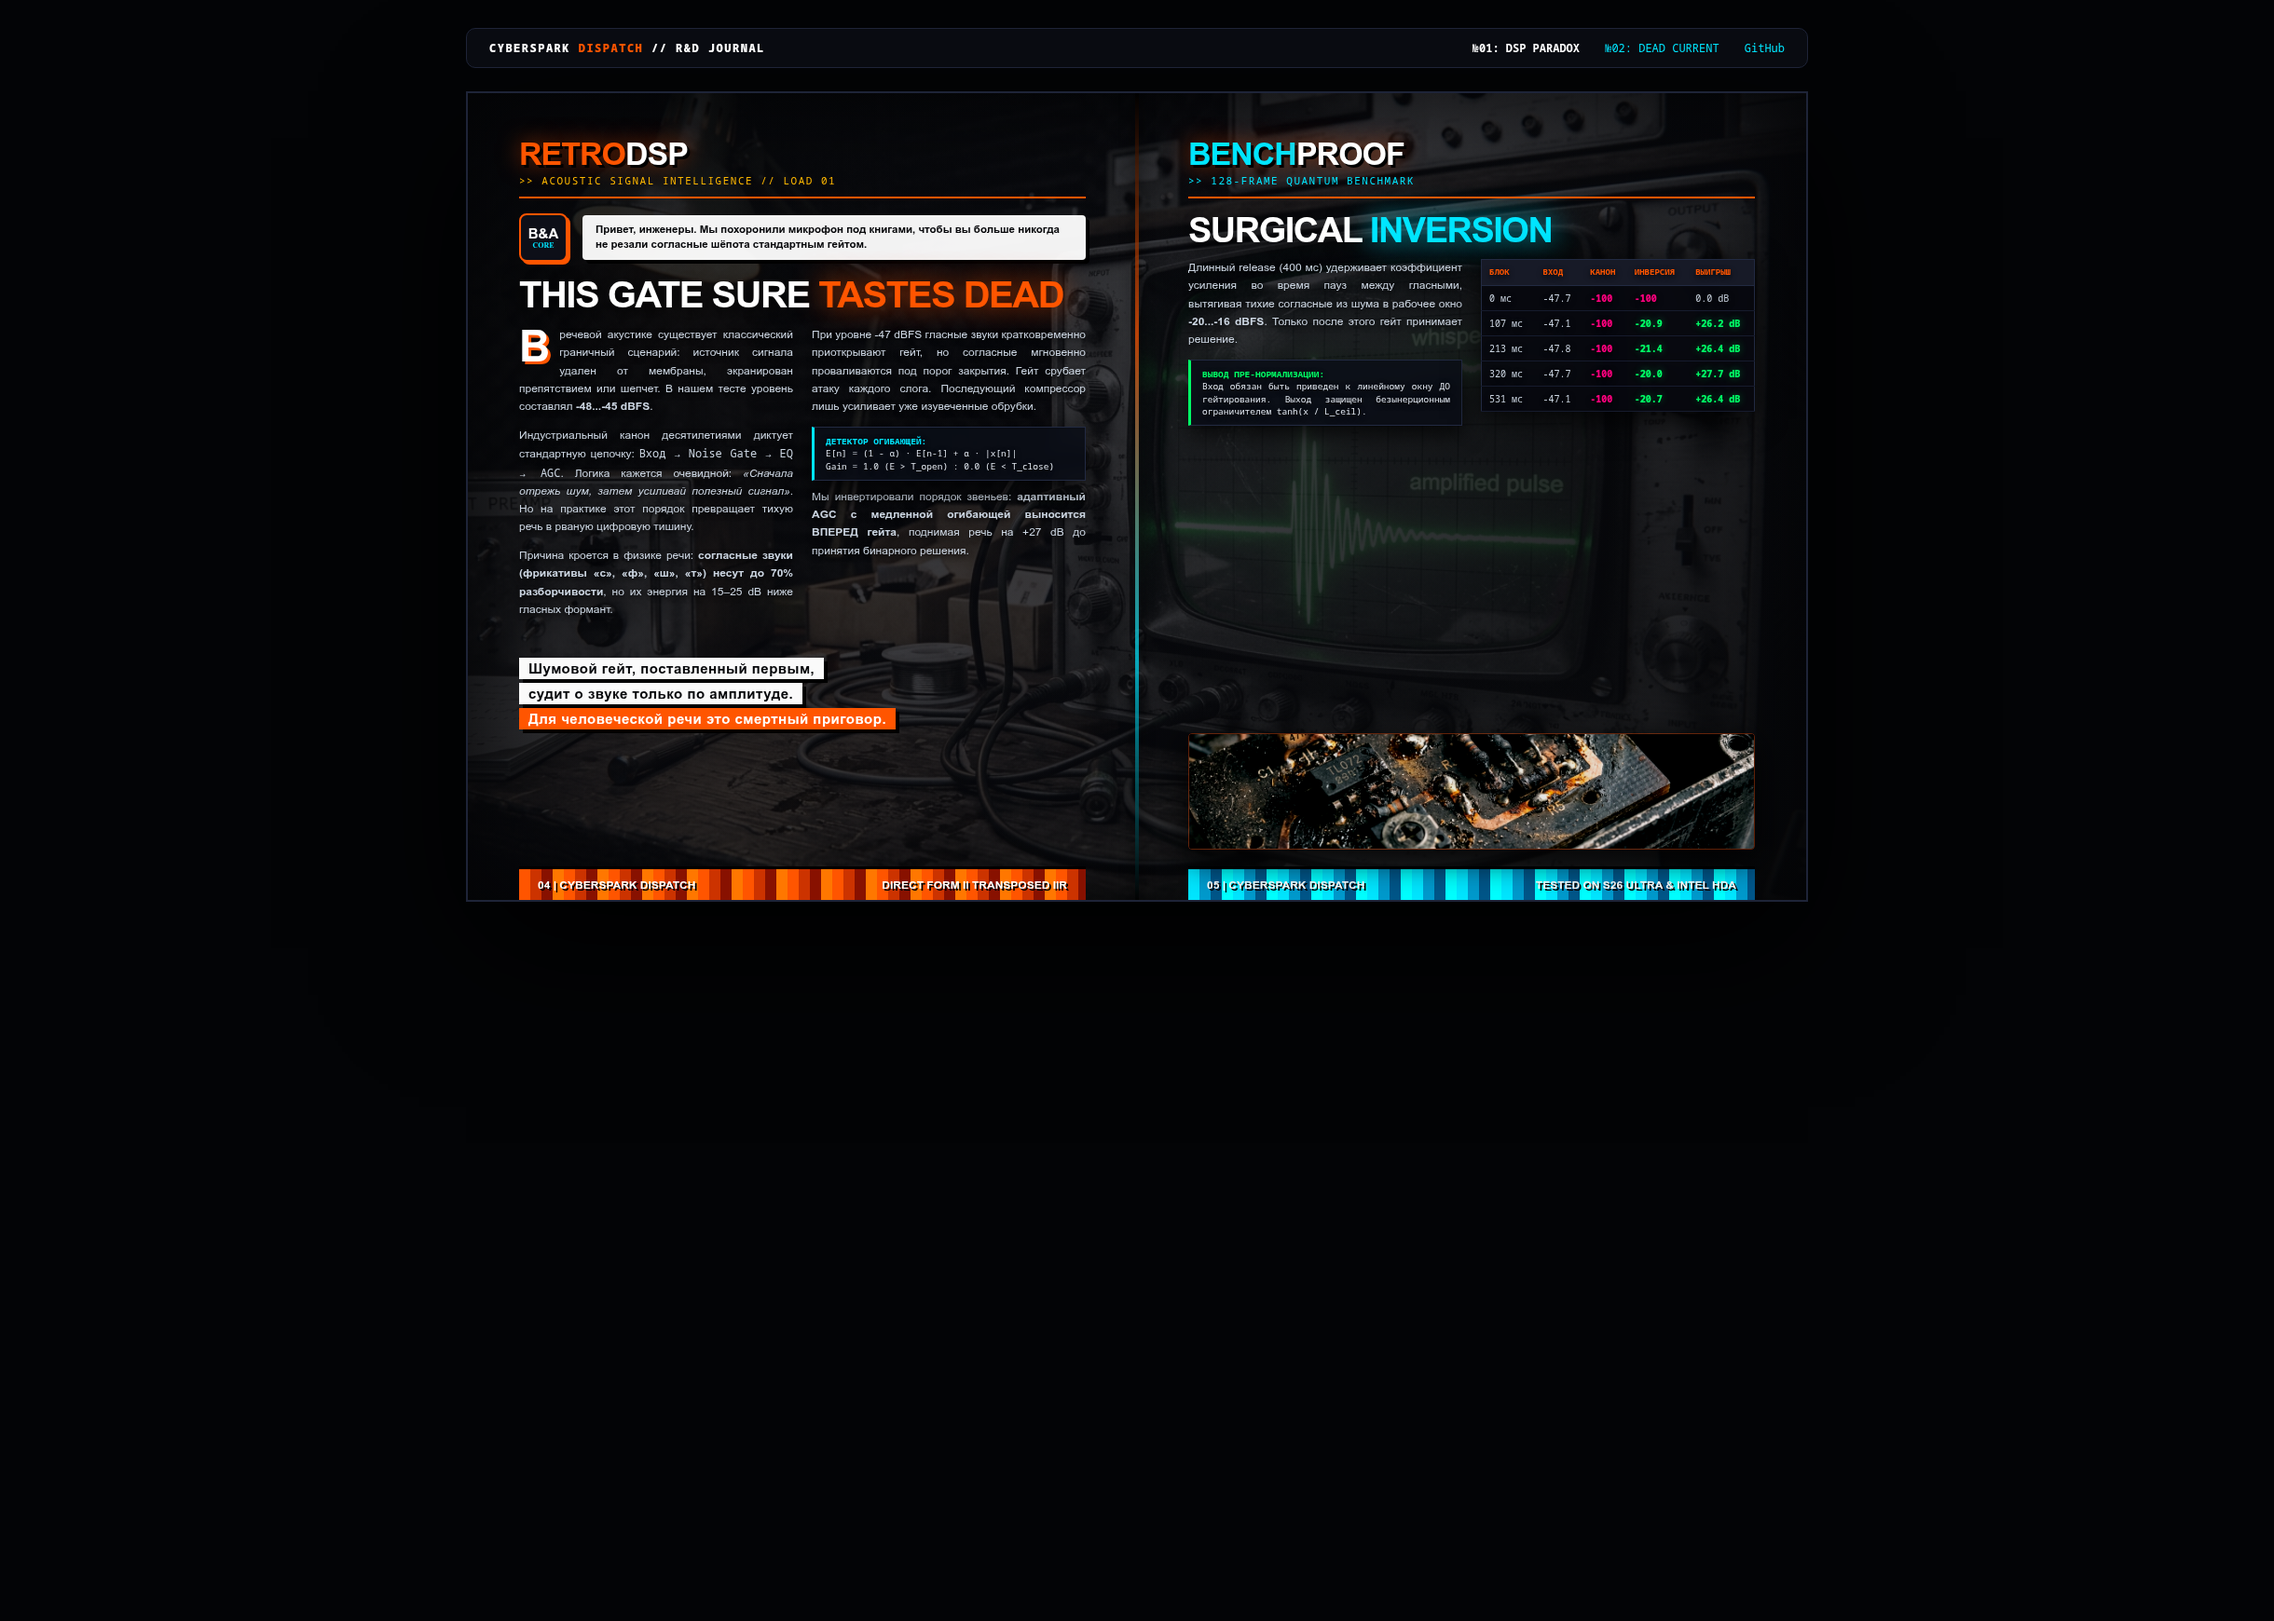
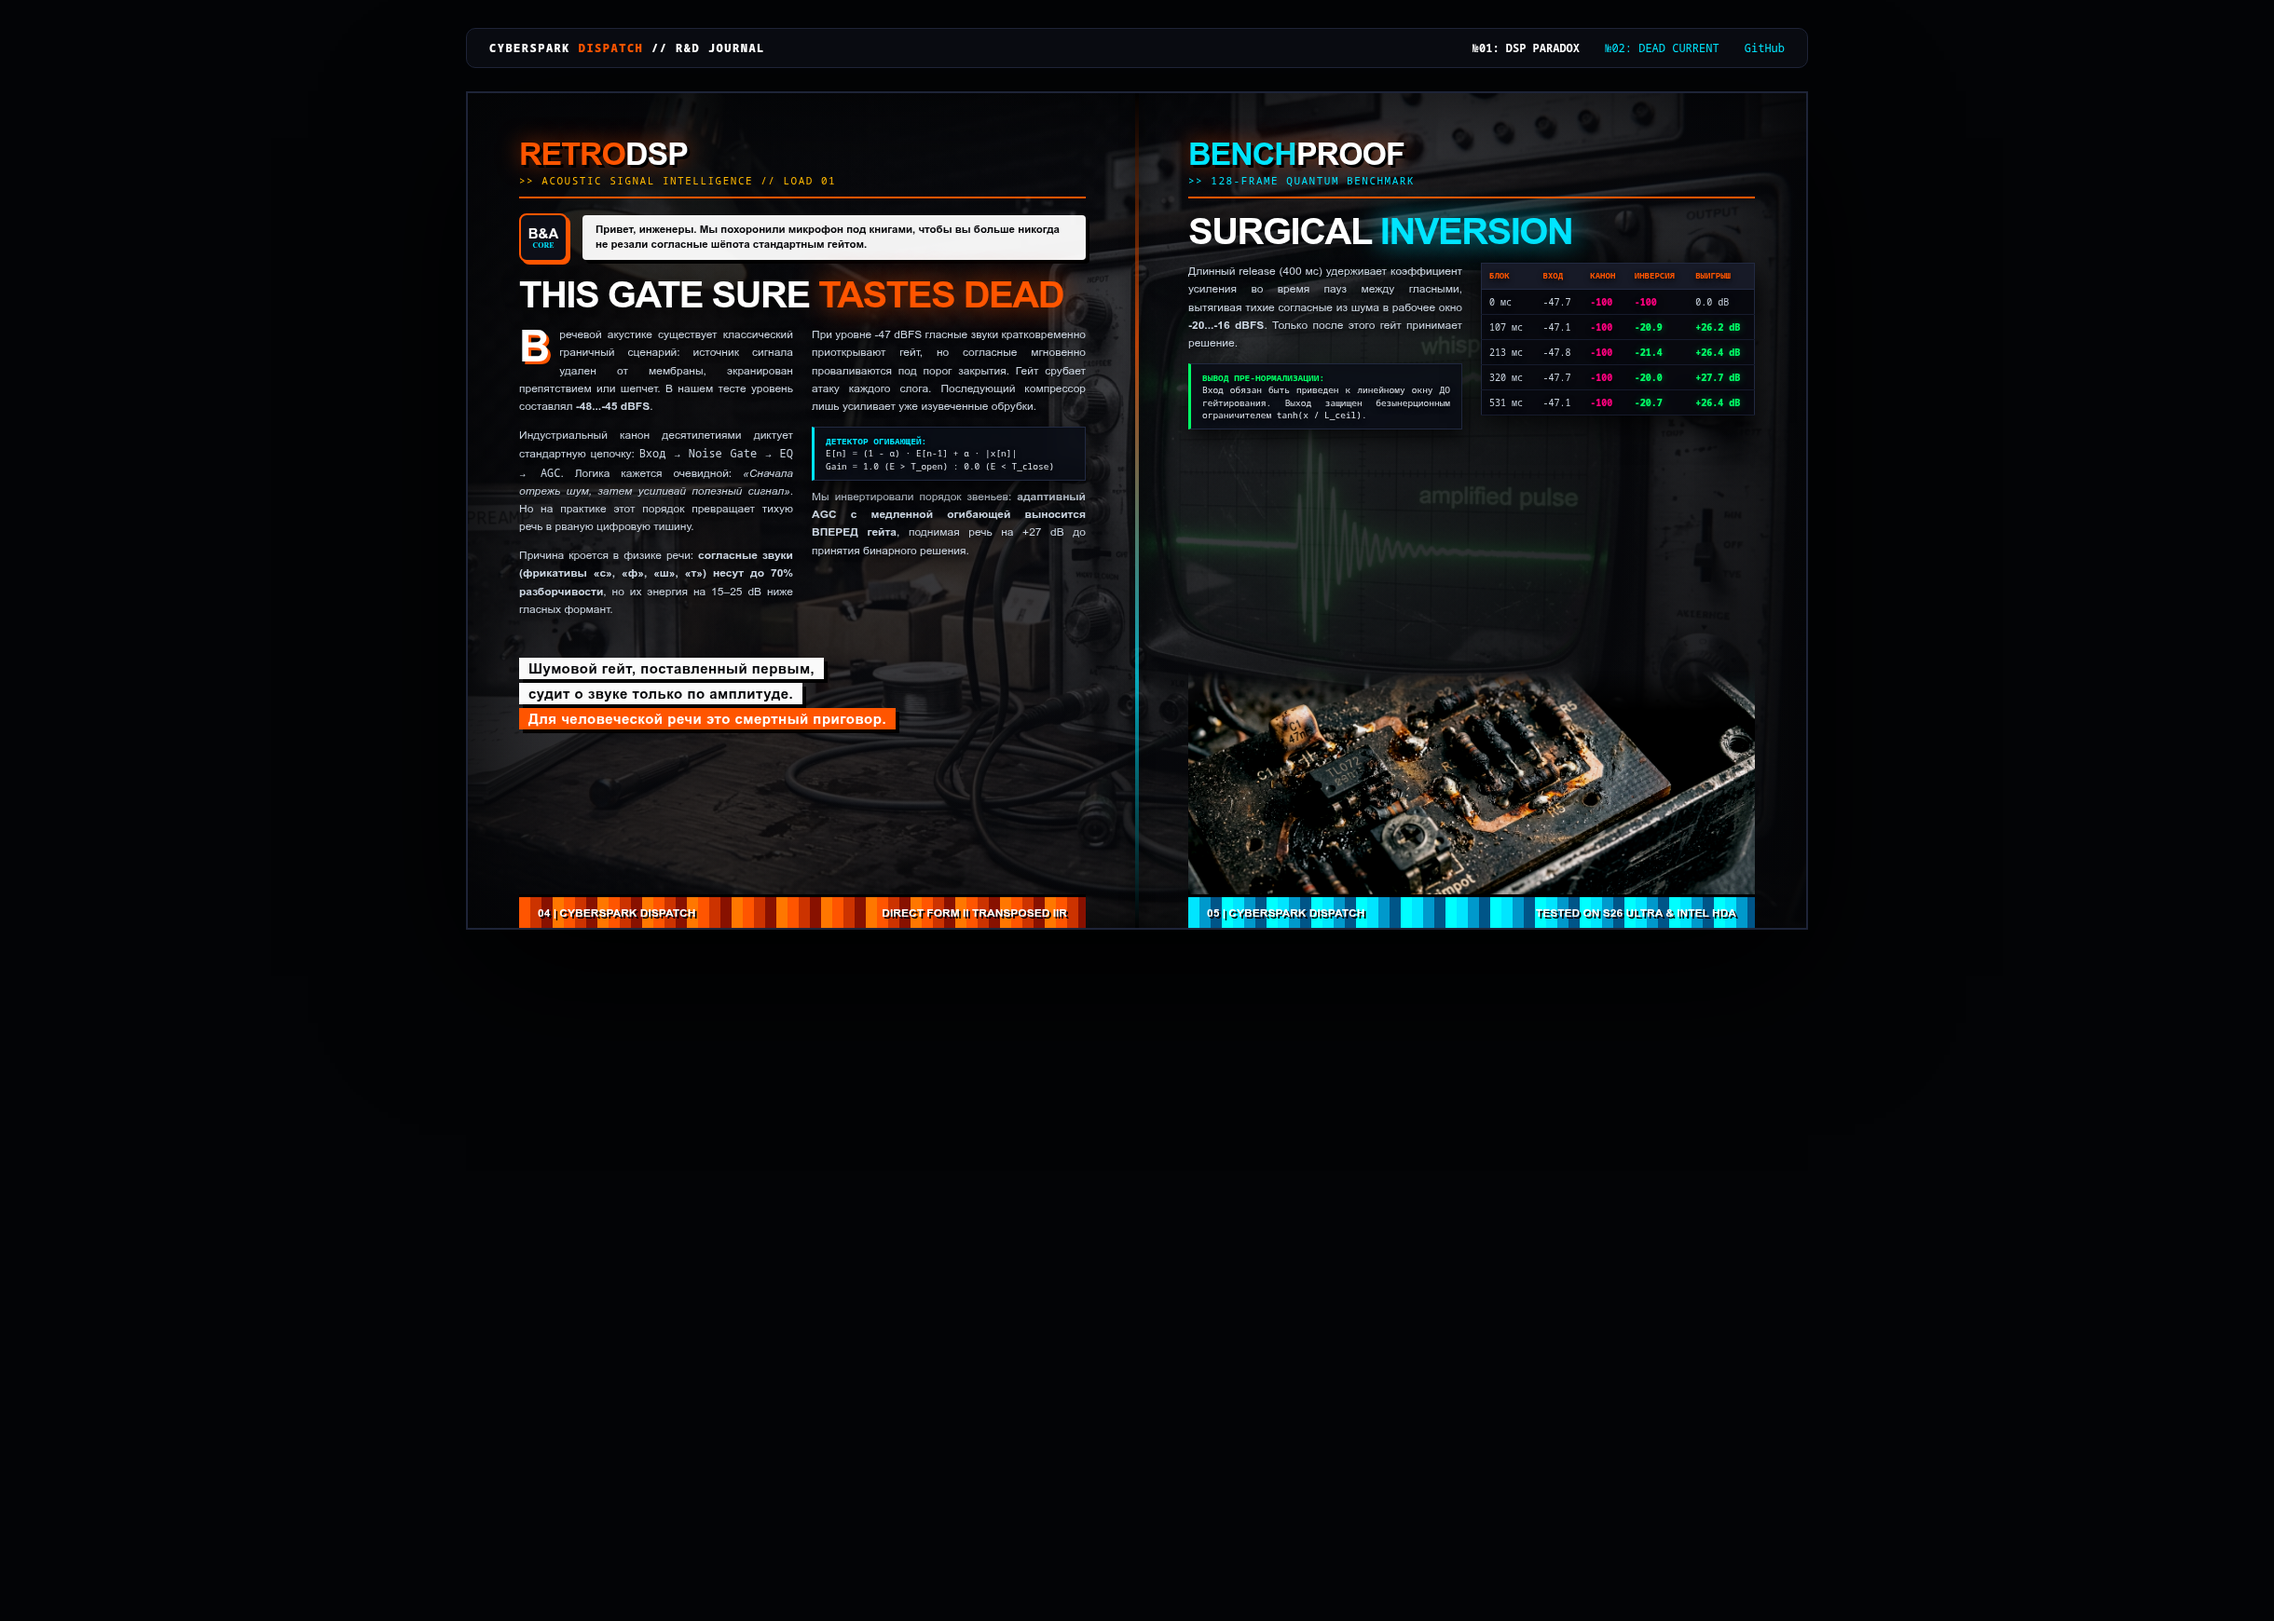
✨ Natural Aspect Ratio & Organic Feathering: Removed artificial borders & tight height caps on macro hero images

diff --git a/index.html b/index.html
@@ -61,7 +61,7 @@
   .spread-container {
     width: 100%;
     max-width: 1440px;
-    min-height: 870px;
+    min-height: 900px;
     background: 
       linear-gradient(135deg, rgba(6,7,10,0.82) 0%, rgba(9,10,16,0.72) 45%, rgba(6,7,10,0.85) 100%),
       url('assets/dsp_oscilloscope_raw.jpg') center center / cover no-repeat;
@@ -231,7 +231,6 @@
     color: #ffffff;
   }
 
-  /* DATA TABLE WITH AIR */
   .data-table {
     width: 100%;
     border-collapse: collapse;
@@ -275,17 +274,17 @@
     box-shadow: 0 8px 25px rgba(0,0,0,0.8);
   }
 
-  /* BOTTOM-ANCHORED FULL-WIDTH TACTILE ARTIFACT STRIP */
-  .bottom-anchored-strip {
+  /* FULL-BLEED SEAMLESS BOTTOM IMAGE (NO BORDER, ORGANIC 16:9 RATIO, FEATHERED TOP) */
+  .bottom-organic-hero {
     width: 100%;
-    height: 125px;
+    height: 240px;
     object-fit: cover;
     object-position: center 60%;
-    border-radius: 4px;
-    border: 1px solid rgba(255,85,0,0.4);
-    box-shadow: 0 10px 35px rgba(0,0,0,0.95), inset 0 0 30px rgba(0,0,0,0.8);
-    filter: contrast(1.2) brightness(0.9);
-    margin-top: 14px;
+    display: block;
+    filter: contrast(1.15) brightness(0.92);
+    mask-image: linear-gradient(to bottom, transparent 0%, rgba(0,0,0,1) 18%, rgba(0,0,0,1) 100%);
+    -webkit-mask-image: linear-gradient(to bottom, transparent 0%, rgba(0,0,0,1) 18%, rgba(0,0,0,1) 100%);
+    margin-top: 16px;
   }
 
   .ground-footer {
@@ -308,7 +307,6 @@
     font-size: 12px;
     color: #ffffff;
     text-shadow: 2px 2px 0px #000;
-    margin-top: 14px;
   }
 
   @media (max-width: 950px) {
@@ -388,7 +386,7 @@
   </article>
 
 
-  <!-- ==================== RIGHT PAGE (A4: BENCHMARK & BOTTOM ANCHORED PCB) ==================== -->
+  <!-- ==================== RIGHT PAGE (A4: BENCHMARK & SEAMLESS MACRO) ==================== -->
   <article class="page page-right">
     <div>
       <header class="retro-header-bar">
@@ -398,7 +396,7 @@
         </div>
       </header>
 
-      <h2 class="article-title" style="font-size: 38px; margin-bottom: 12px;">
+      <h2 class="article-title" style="font-size: 40px; margin-bottom: 14px;">
         Surgical <span style="color:var(--retro-cyan); text-shadow: 0 0 30px rgba(0,229,255,0.8);">Inversion</span>
       </h2>
 
@@ -415,7 +413,6 @@
         </div>
 
         <div class="col">
-          <!-- Clean table with ample space -->
           <table class="data-table">
             <thead>
               <tr>
@@ -438,9 +435,9 @@
       </div>
     </div>
 
-    <!-- TACTILE RAW MACRO ARTIFACT ANCHORED AT THE BOTTOM ACROSS THE FULL RIGHT PAGE -->
+    <!-- SEAMLESS UNBOUNDED BOTTOM MACRO HERO WITH ORGANIC FEATHERING -->
     <div>
-      <img src="assets/dsp_dirty_circuit.jpg" alt="Burnt Biquad Prototype" class="bottom-anchored-strip">
+      <img src="assets/dsp_dirty_circuit.jpg" alt="Burnt Biquad Prototype" class="bottom-organic-hero">
 
       <footer class="ground-footer" style="background: repeating-linear-gradient(90deg, #00e5ff 0px, #00e5ff 12px, #0099cc 12px, #0099cc 24px, #005588 24px, #005588 36px, #00ffff 36px, #00ffff 48px);">
         <span>05 | CYBERSPARK DISPATCH</span>

diff --git a/issue_02.html b/issue_02.html
@@ -61,7 +61,7 @@
   .spread-container {
     width: 100%;
     max-width: 1440px;
-    min-height: 870px;
+    min-height: 900px;
     background: 
       linear-gradient(180deg, rgba(4,5,8,0.85) 0%, rgba(8,10,18,0.68) 50%, rgba(4,5,8,0.92) 100%),
       url('assets/dead_current_crater_raw.jpg') center bottom / cover no-repeat;
@@ -272,17 +272,17 @@
     box-shadow: 0 8px 25px rgba(0,0,0,0.8);
   }
 
-  /* BOTTOM-ANCHORED SCORCHED THERMOCOUPLE STRIP */
-  .bottom-anchored-strip {
+  /* FULL-BLEED SEAMLESS BOTTOM IMAGE (NO BORDER, ORGANIC 16:9 RATIO, FEATHERED TOP) */
+  .bottom-organic-hero {
     width: 100%;
-    height: 125px;
+    height: 240px;
     object-fit: cover;
     object-position: center 45%;
-    border-radius: 4px;
-    border: 1px solid rgba(255,171,0,0.5);
-    box-shadow: 0 10px 35px rgba(0,0,0,0.95), 0 0 20px rgba(255,171,0,0.3);
-    filter: contrast(1.2) brightness(0.95);
-    margin-top: 14px;
+    display: block;
+    filter: contrast(1.15) brightness(0.95);
+    mask-image: linear-gradient(to bottom, transparent 0%, rgba(0,0,0,1) 18%, rgba(0,0,0,1) 100%);
+    -webkit-mask-image: linear-gradient(to bottom, transparent 0%, rgba(0,0,0,1) 18%, rgba(0,0,0,1) 100%);
+    margin-top: 16px;
   }
 
   .ground-footer {
@@ -305,7 +305,6 @@
     font-size: 12px;
     color: #ffffff;
     text-shadow: 2px 2px 0px #000;
-    margin-top: 14px;
   }
 
   @media (max-width: 950px) {
@@ -385,7 +384,7 @@
   </article>
 
 
-  <!-- ==================== RIGHT PAGE (A4: HARVEST SPEC & BOTTOM ANCHORED SEEBECK CORE) ==================== -->
+  <!-- ==================== RIGHT PAGE (A4) ==================== -->
   <article class="page page-right">
     <div>
       <header class="retro-header-bar" style="border-bottom-color:var(--amber-core);">
@@ -395,7 +394,7 @@
         </div>
       </header>
 
-      <h2 class="article-title" style="font-size: 38px; margin-bottom: 12px;">
+      <h2 class="article-title" style="font-size: 40px; margin-bottom: 14px;">
         Seebeck <span style="color:var(--amber-core); text-shadow: 0 0 30px rgba(255,171,0,0.8);">Harvest</span>
       </h2>
 
@@ -412,7 +411,6 @@
         </div>
 
         <div class="col">
-          <!-- Clean battle parameter table with ample space -->
           <table class="data-table">
             <thead>
               <tr>
@@ -432,9 +430,9 @@
       </div>
     </div>
 
-    <!-- TACTILE RAW MACRO ARTIFACT ANCHORED AT THE BOTTOM ACROSS THE FULL RIGHT PAGE -->
+    <!-- SEAMLESS UNBOUNDED BOTTOM MACRO HERO WITH ORGANIC FEATHERING -->
     <div>
-      <img src="assets/dead_current_seebeck_core.jpg" alt="Scorched Seebeck Thermocouple" class="bottom-anchored-strip">
+      <img src="assets/dead_current_seebeck_core.jpg" alt="Scorched Seebeck Thermocouple" class="bottom-organic-hero">
 
       <footer class="ground-footer" style="background: repeating-linear-gradient(90deg, #ffab00 0px, #ffab00 12px, #cc8800 12px, #cc8800 24px, #664400 24px, #664400 36px, #00e5ff 36px, #00e5ff 48px);">
         <span>07 | CYBERSPARK DISPATCH</span>
